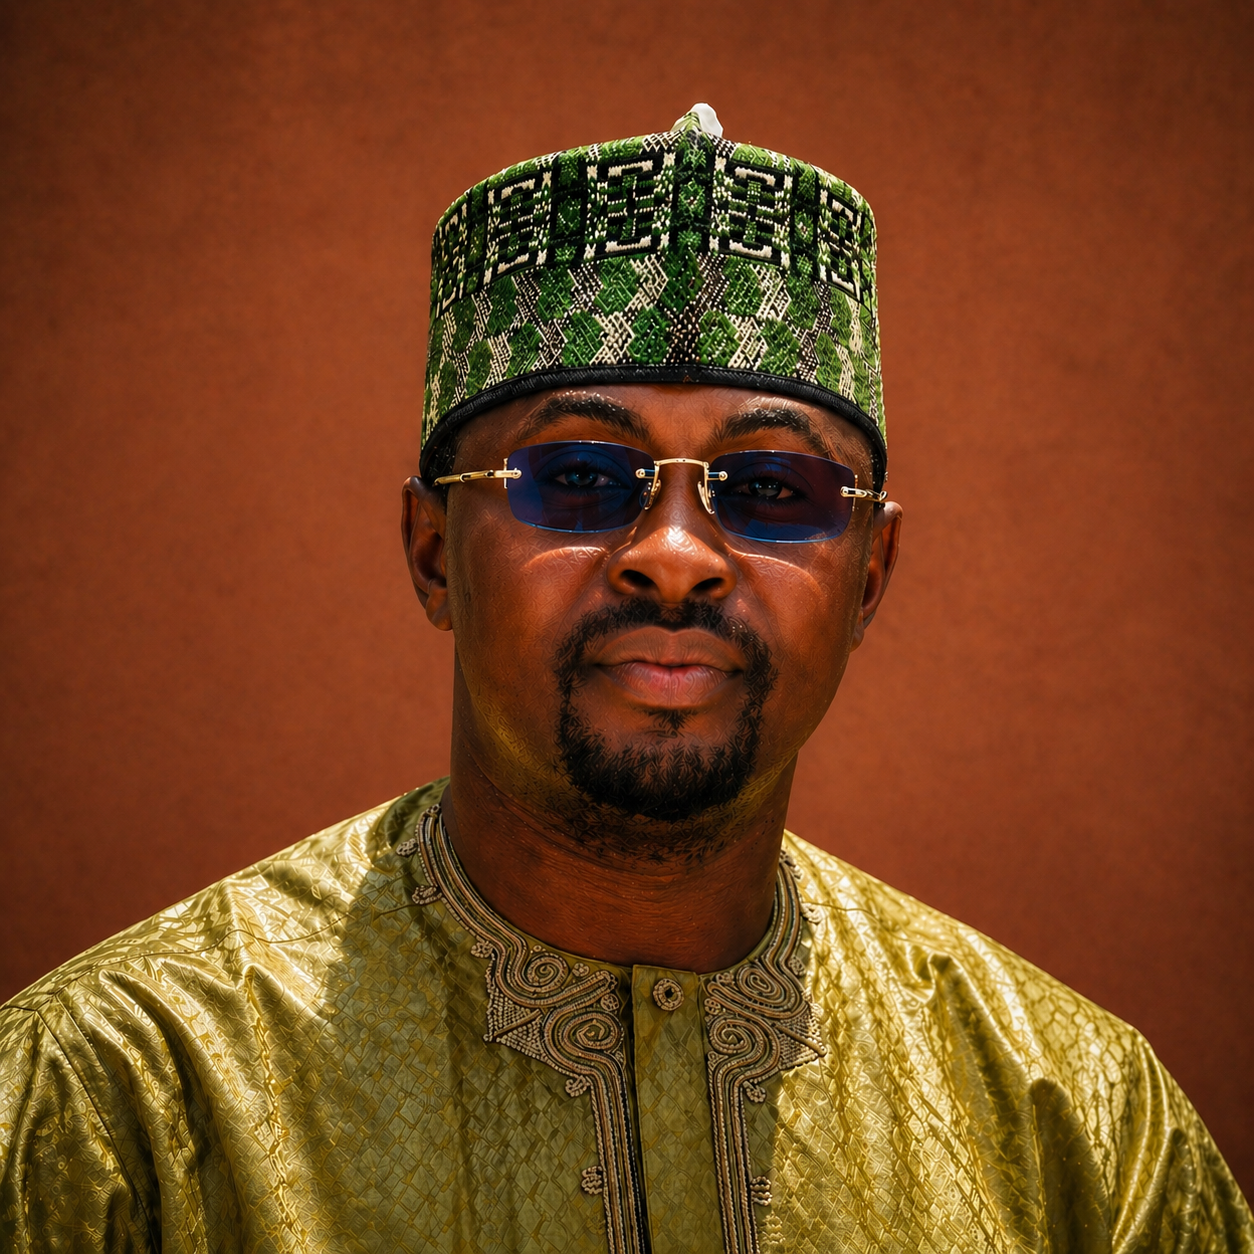
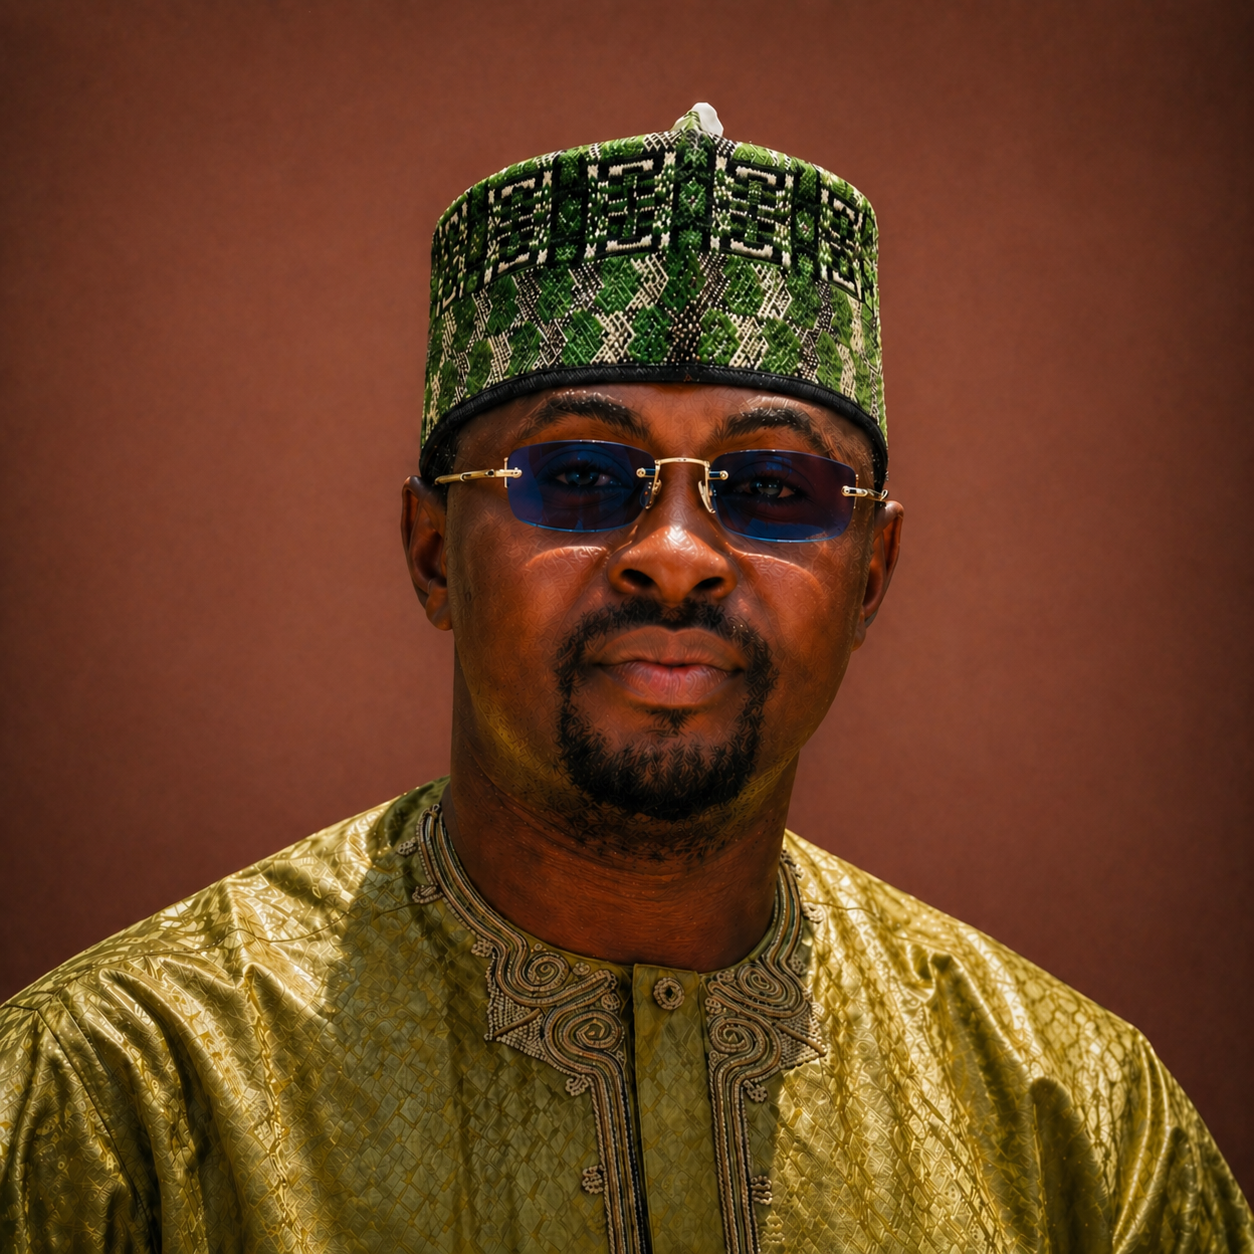
images

diff --git a/index.html b/index.html
@@ -690,7 +690,7 @@
                 </div>
                 <div class="team-card bg-white rounded-lg overflow-hidden shadow-sm border border-gray-200 text-center">
                     <div class="overflow-hidden aspect-square">
-                        <img src="Images/vet.jpg" alt="Chief Veterinary Officer" class="w-full h-full object-cover object-center">
+                        <img src="Images/vet.png" alt="Chief Veterinary Officer" class="w-full h-full object-cover object-center">
                     </div>
                     <div class="p-6 relative">
                         <div class="absolute -top-0 left-1/2 -translate-x-1/2 w-12 h-1 bg-brand-orange"></div>
@@ -707,7 +707,7 @@
                 </div>
                 <div class="team-card bg-white rounded-lg overflow-hidden shadow-sm border border-gray-200 text-center">
                     <div class="overflow-hidden aspect-square">
-                        <img src="Images/log mg.jpg" alt="Head of Procurement" class="w-full h-full object-cover object-center">
+                        <img src="Images/log mg.png" alt="Head of Procurement" class="w-full h-full object-cover object-center">
                     </div>
                     <div class="p-6 relative">
                         <div class="absolute -top-0 left-1/2 -translate-x-1/2 w-12 h-1 bg-brand-orange"></div>
@@ -724,7 +724,7 @@
                 </div>
                 <div class="team-card bg-white rounded-lg overflow-hidden shadow-sm border border-gray-200 text-center">
                     <div class="overflow-hidden aspect-square">
-                        <img src="Images/medialead.jpg" alt="Farm Manager" class="w-full h-full object-cover object-center">
+                        <img src="Images/medialead.png" alt="Farm Manager" class="w-full h-full object-cover object-center">
                     </div>
                     <div class="p-6 relative">
                         <div class="absolute -top-0 left-1/2 -translate-x-1/2 w-12 h-1 bg-brand-orange"></div>
